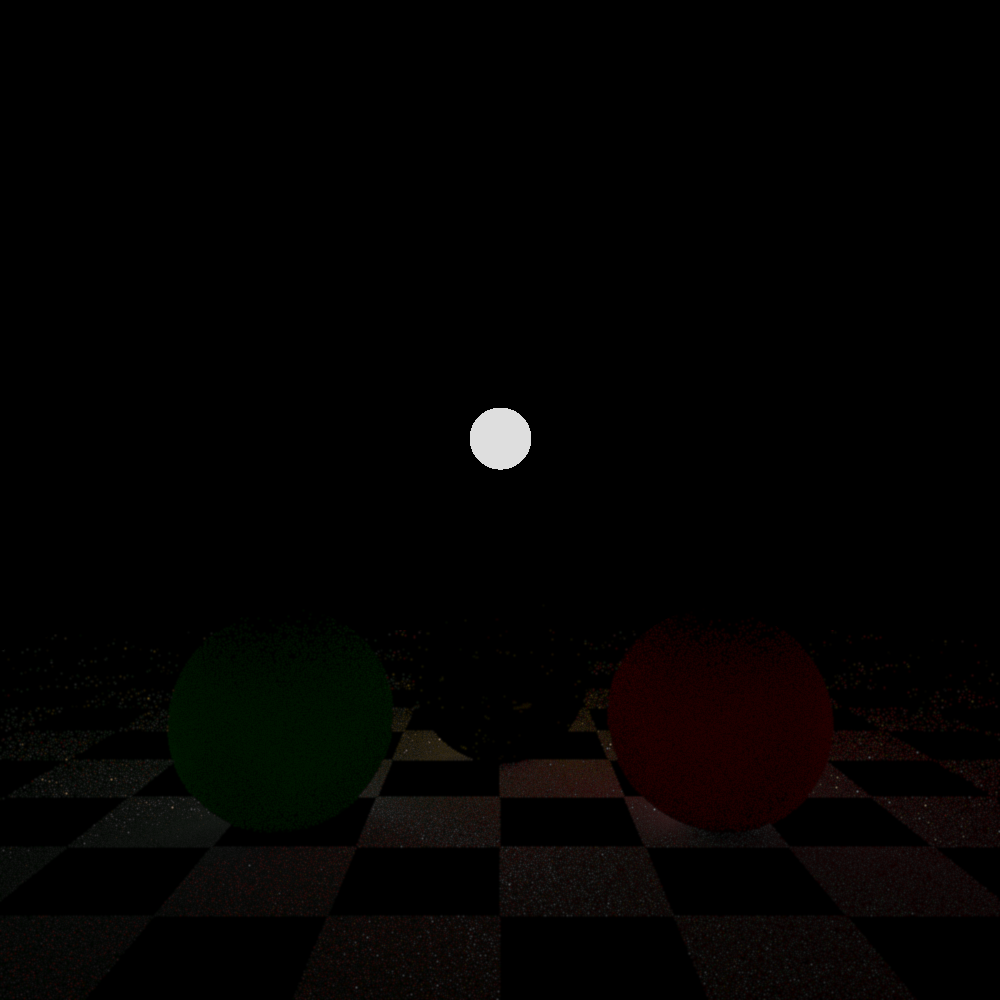
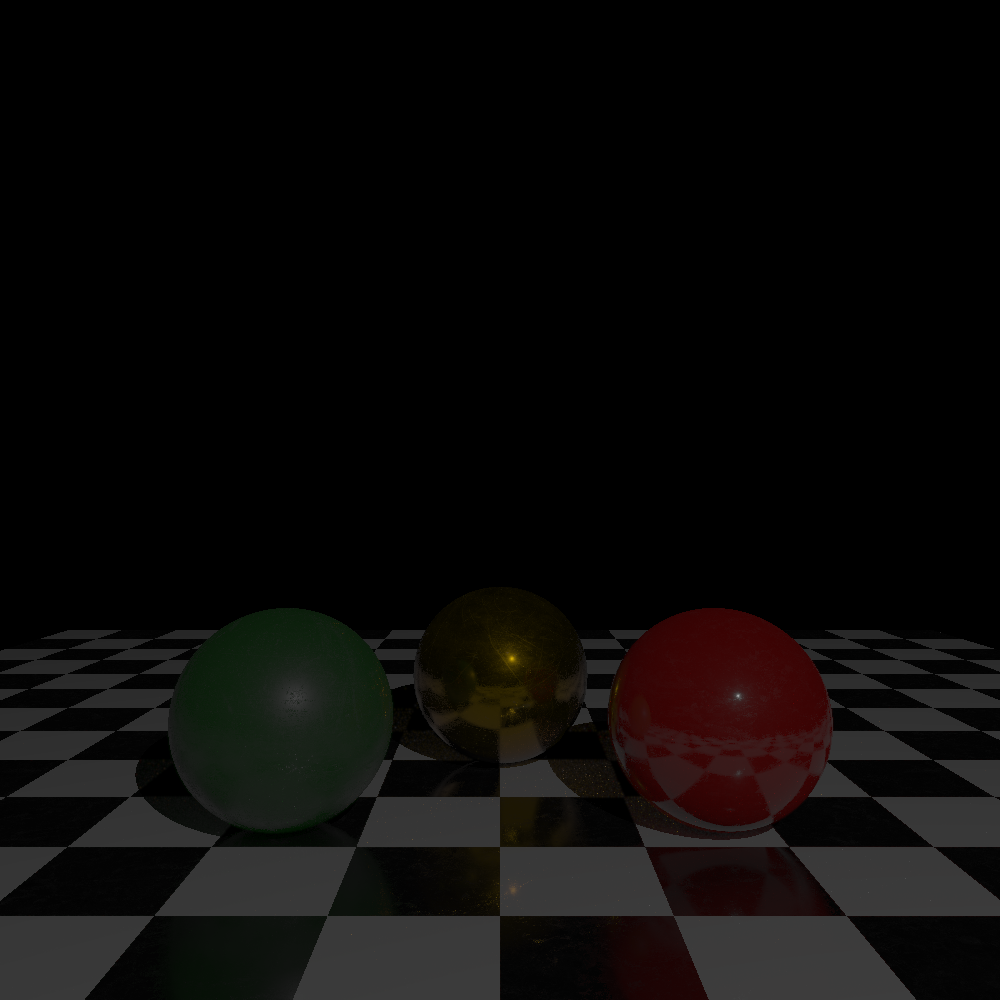
performance improvement bilateral filter

Changed region(s): [[0.0, 0.589, 1.0, 1.0], [0.465, 0.403, 0.527, 0.465]]

diff --git a/src/cgg/RayTracer.java b/src/cgg/RayTracer.java
@@ -38,76 +38,57 @@ public class RayTracer implements Sampler
 		this.DIFFUSE_SETS = LUT.lookup().subsets_raster(Config.DIFFUSE_SAMPLES);
 		this.SPECULAR_SETS = LUT.lookup().subsets_raster(Config.SPECULAR_SAMPLES);
 		*/
+	}
 
+	public void bake()
+	{
 		// diffuse precalculation
-		System.out.println("pre-processing global diffuse...");
 		int bsize = Config.WIDTH*Config.HEIGHT;
-		Vec3[] __Diffuse = new Vec3[bsize];
+		this.diffuse = _globalIllumination(bsize);
+
+		// diffuse map convolution through bilateral filtering
+		// java language specs guarantee 0 as initial value for each array element
+		// looping for x and y individually, multiplication and addition is faster than modulo and division
+		double sigd = pow(Config.BF_SIGMA_D,2);
+		double sigr = pow(Config.BF_SIGMA_R,2);
+		/*
+		this.diffuse = _bilateralFilter(diffuse,bsize,16,sigd,sigr);
+		this.diffuse = _bilateralFilter(diffuse,bsize,4,sigd,sigr);
+		this.diffuse = _bilateralFilter(diffuse,bsize,2,sigd,sigr);
+		*/
+		this.diffuse = _bilateralFilter(diffuse,bsize,1,sigd,sigr);
+		// FIXME breakdown into vertical & horizontal substeps for incredible performance benefits
+		// TODO find out if this breakdown even does something interesting without dithering
+		// TODO fix, it still looks horrible
+	}
+
+	private Vec3[] _globalIllumination(int bsize)
+	{
+		Vec3[] out = new Vec3[bsize];
+
+		// threading
+		System.out.println("pre-processing global diffuse...");
 		AdvancementData adv_data = new AdvancementData(bsize);
 		Thread __AllFaxNoPrinter = new Thread(new AdvancementPrinter(adv_data));
 		__AllFaxNoPrinter.start();
+
+		// diffuse precalculation
 		StopWatch __Timing = new StopWatch();
 		Stream.iterate(0,i -> i<bsize,i -> i+1)
 			.unordered()
 			.parallel()
 			.forEach(i -> {
-					__Diffuse[i] = _precalculateDiffuse(i);
+					out[i] = _precalculateDiffuse(i);
 					adv_data.adv++;
 				});
 		adv_data.done = true;
 		__Timing.stop();
+
+		// end threading and print stats
 		try { __AllFaxNoPrinter.join(); }
 		catch (InterruptedException e) {  }
 		System.out.printf("\ndone in %.2fs\n",__Timing.time_seconds());
-		// TODO show progress and timing in terminal
-
-		// diffuse map convolution through bilateral filtering
-		// java language specs guarantee 0 as initial value for each array element
-		// looping for x and y individually, multiplication and addition is faster than modulo and division
-		System.out.print("filtering diffuse buffer... ");
-		this.diffuse = new Vec3[bsize];
-		double sigd = pow(Config.BF_SIGMA_D,2);
-		double sigr = pow(Config.BF_SIGMA_R,2);
-		for (int y=0;y<Config.HEIGHT;y++)
-		{
-			for (int x=0;x<Config.WIDTH;x++)
-			{
-				int rlin = y*Config.WIDTH+x;
-				Vec3 __Center = __Diffuse[rlin];
-
-				// sigma for bilateral pixel processing
-				Vec3 __Result = vec3(0);
-				double __Weight = 0;
-				for (int i=-Config.BF_DIAMETER;i<=Config.BF_DIAMETER;i++)
-				{
-					for (int j=-Config.BF_DIAMETER;j<=Config.BF_DIAMETER;j++)
-					{
-						int __NX = x-i;
-						int __NY = y-j;
-
-						// out of bounds ee
-						if (__NX<0||__NX>=Config.WIDTH||__NY<0||__NY>=Config.HEIGHT) continue;
-
-						// gauss kernel procedere
-						Vec3 __Sample = __Diffuse[__NY*Config.WIDTH+__NX];
-						double __Gauss = exp(
-								-((pow(x-__NX,2)+pow(y-__NY,2))/(2.*sigd))
-								-(pow(luma(__Center)-luma(__Sample),2)/(2*sigr))
-								//-(pow(length(subtract(__Center,__Sample)),2)/(2*sigr))
-							);
-
-						// weight
-						__Result = add(__Result,multiply(__Sample,__Gauss));
-						__Weight += __Gauss;
-					}
-				}
-
-				// normalizing pixel result
-				diffuse[rlin] = divide(__Result,max(__Weight,.0001));
-			}
-		}
-		System.out.println("done.");
-		// FIXME breakdown into vertical & horizontal substeps for incredible performance benefits
+		return out;
 	}
 
 	private Vec3 _precalculateDiffuse(int i)
@@ -133,6 +114,70 @@ public class RayTracer implements Sampler
 
 		// diffuse colour
 		return _diffuseComponent(__Coord,0,__Hit,__GIFresnel,__Metallic);
+	}
+
+	private Vec3[] _bilateralFilter(Vec3[] ds,int bsize,int steps,double sigd,double sigr)
+	{
+		Vec3[] out = new Vec3[bsize];
+
+		// threading
+		System.out.println("filtering diffuse buffer "+steps+"x...");
+		AdvancementData adv_data = new AdvancementData(bsize);
+		Thread __AllFaxNoPrinter = new Thread(new AdvancementPrinter(adv_data));
+		__AllFaxNoPrinter.start();
+
+		// filtering
+		StopWatch __Timing = new StopWatch();
+		Stream.iterate(0,y -> y<Config.HEIGHT,y -> y+1)
+			.unordered()
+			.parallel()
+			.forEach(y -> Stream.iterate(0,x -> x<Config.WIDTH,x -> x+1)
+					 .forEach(x -> {
+							 out[y*Config.WIDTH+x] = _sigmaBilateralFilter(ds,x,y,steps,sigd,sigr);
+							 adv_data.adv++;
+						 })
+				);
+		adv_data.done = true;
+		__Timing.stop();
+
+		// end threading and print statistics
+		try { __AllFaxNoPrinter.join(); }
+		catch (InterruptedException e) {  }
+		System.out.printf("\ndone in %.2fs\n",__Timing.time_seconds());
+		return out;
+	}
+
+	private Vec3 _sigmaBilateralFilter(Vec3[] ds,int x,int y,int steps,double sigd,double sigr)
+	{
+		int rlin = y*Config.WIDTH+x;
+		Vec3 __Center = ds[rlin];
+		double __Weight = 0;
+		Vec3 out = vec3(0);
+		for (int i=-Config.BF_DIAMETER;i<=Config.BF_DIAMETER;i++)
+		{
+			for (int j=-Config.BF_DIAMETER;j<=Config.BF_DIAMETER;j++)
+			{
+				int __NX = x-i*steps;
+				int __NY = y-j*steps;
+
+				// out of bounds ee
+				if (__NX<0||__NX>=Config.WIDTH||__NY<0||__NY>=Config.HEIGHT) continue;
+
+				// gauss kernel procedere
+				Vec3 __Sample = ds[__NY*Config.WIDTH+__NX];
+				double __Gauss = exp(
+						-((pow(x-__NX,2)+pow(y-__NY,2))/(2.*sigd))
+						-(pow(luma(__Center)-luma(__Sample),2)/(2*sigr))
+					);
+
+				// weight
+				out = add(out,multiply(__Sample,__Gauss));
+				__Weight += __Gauss;
+			}
+		}
+
+		// normalize pixel result
+		return divide(out,max(__Weight,.0001));
 	}
 
 	public Color getColor(Vec2 coord)
@@ -186,7 +231,7 @@ public class RayTracer implements Sampler
 	private Color _shadePhysical(Hit hit,Ray ray,Vec2 coord,int depth)
 	{
 		// §§test output
-		if (depth==0) return color(diffuse[(int)coord.y()*Config.WIDTH+(int)coord.x()]);
+		//if (depth==0) return color(diffuse[(int)coord.y()*Config.WIDTH+(int)coord.x()]);
 
 		// extract colour information
 		// colour preferredly to be a constant because the loader does not translate into sRGB colourspace

diff --git a/src/cgg/scne/TestingScene.java b/src/cgg/scne/TestingScene.java
@@ -33,7 +33,8 @@ public class TestingScene extends Scene
 		groot.register_geometry(__TestingSpheres);
 
 		// lighting
-		craeveTheVorbiddenLaemp(vec3(0,-1.5,-7),color(1,1,1),.4);
+		//craeveTheVorbiddenLaemp(vec3(0,-1.5,-7),color(1,1,1),.4);
+		craeveTheVorbiddenLaemp(vec3(2,-4,2),color(1,1,1),.75);
 		/*
 		craeveTheVorbiddenLaemp(vec3(1.25,-1,-4),color(1,.5,0),.7);
 		craeveTheVorbiddenLaemp(vec3(1.25,-2,-1),color(0,.5,1),1);

diff --git a/src/cgg/Main.java b/src/cgg/Main.java
@@ -9,10 +9,16 @@ public class Main
 {
 	public static void main(String[] args)
 	{
+		// geometry
 		Scene scene = new TestingScene();
-		Sampler rt = new HaltonSampler(new RayTracer(scene));
+
+		// raytracer
+		RayTracer rt = new RayTracer(scene);
+		rt.bake();
+
+		// image
 		Image image = new Image();
-		image.sample(rt);
+		image.sample(new HaltonSampler(rt));
 		image.writePng("a08-image");
 	}
 }

diff --git a/src/cgg/Config.java b/src/cgg/Config.java
@@ -29,7 +29,7 @@ public class Config
 	// corrections
 	public static final int BF_DIAMETER = 16;
 	public static final double BF_SIGMA_D = .45;
-	public static final double BF_SIGMA_R = .25;
+	public static final double BF_SIGMA_R = .0001;
 
 	private Config() {  }
 }
